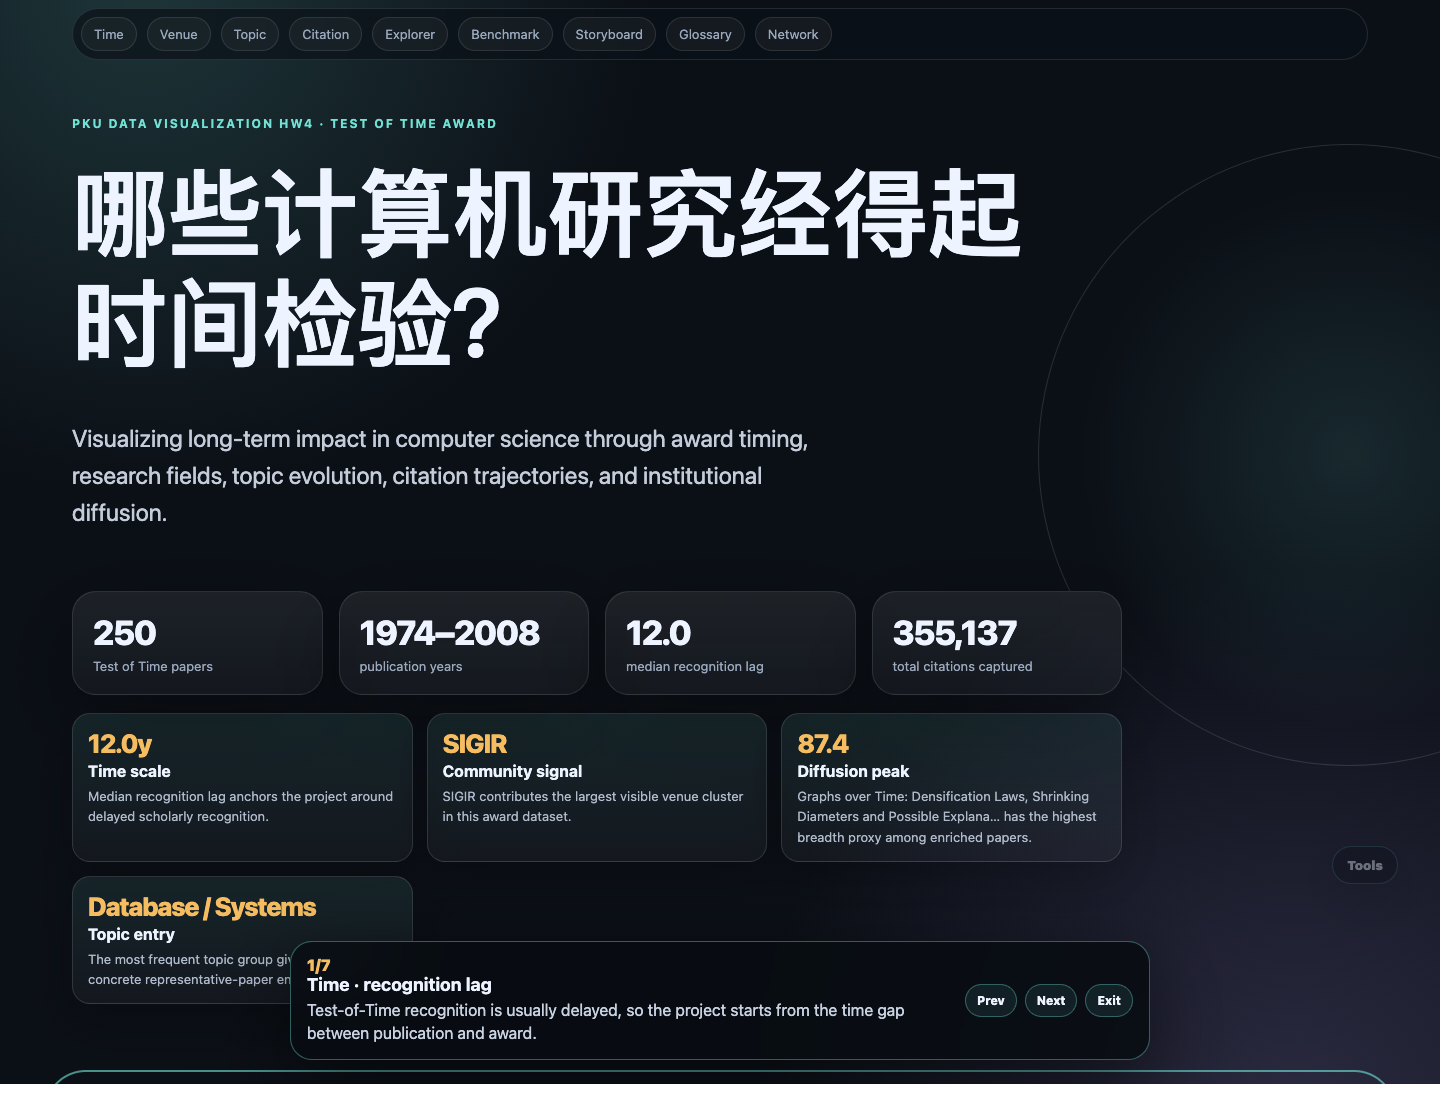
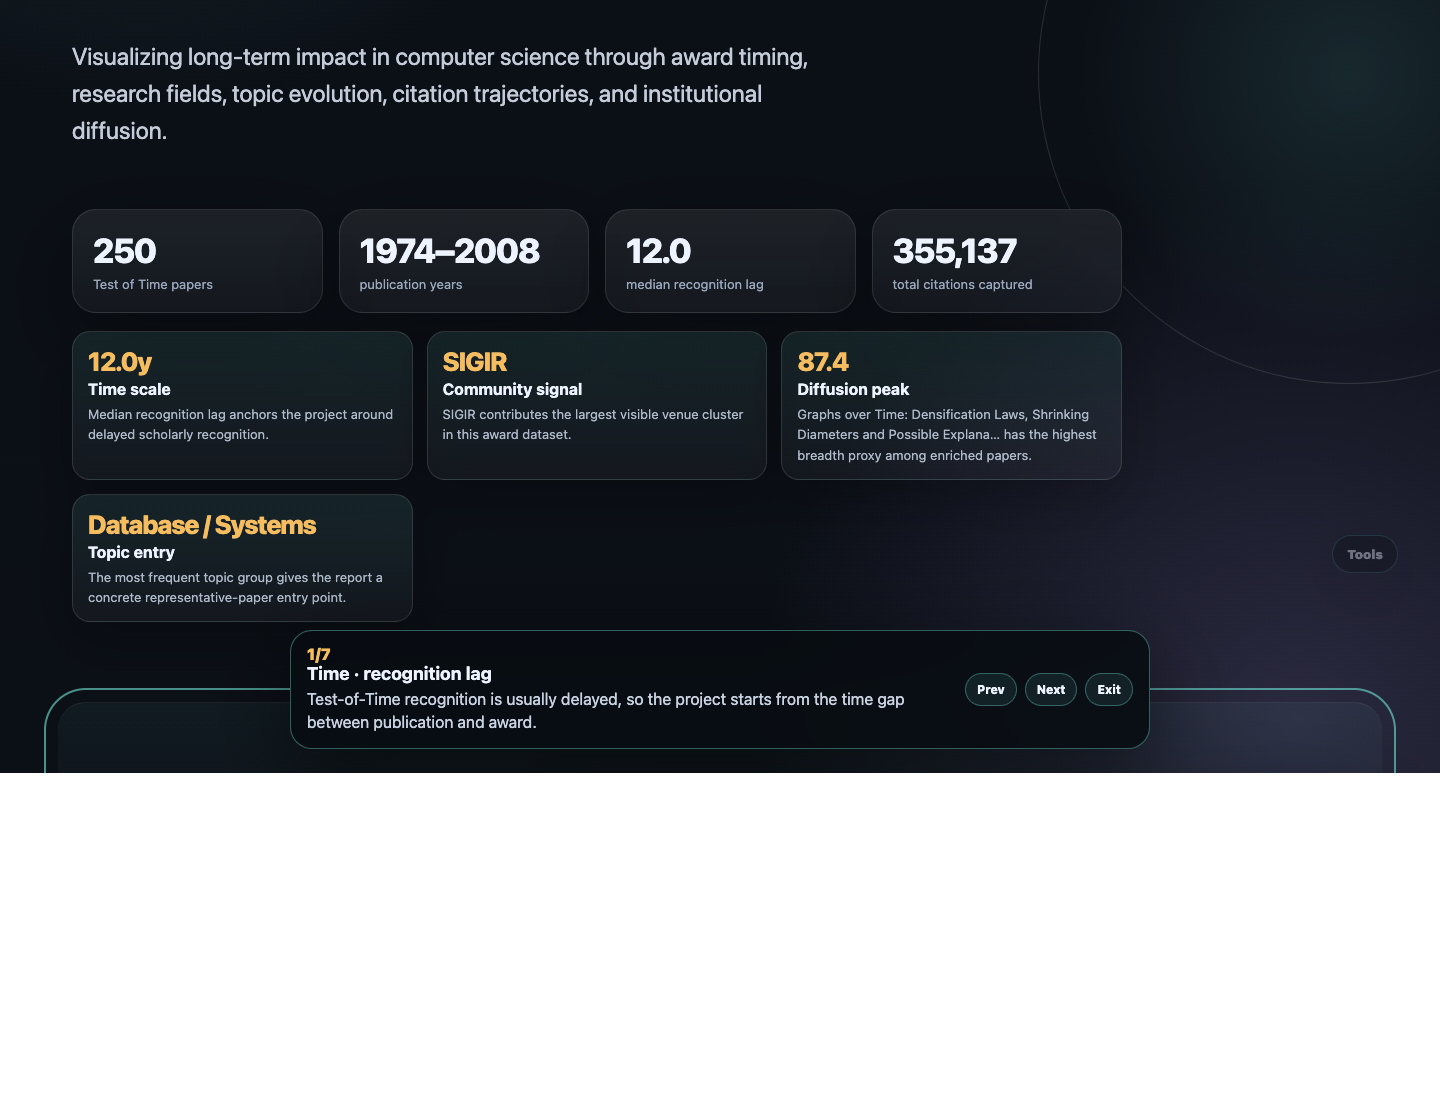
feat: make presentation tool dock draggable

diff --git a/src/app.js b/src/app.js
@@ -88,6 +88,7 @@ function initPresentationMode() {
   const actionDock = document.getElementById("action-dock");
   const dockToggle = document.getElementById("dock-toggle");
   const dockHide = document.getElementById("dock-hide");
+  const dockRestore = document.getElementById("dock-restore");
   const toggle = document.getElementById("presentation-toggle");
   const tourToggle = document.getElementById("tour-toggle");
   const screenshotToggle = document.getElementById("screenshot-toggle");
@@ -131,23 +132,60 @@ function initPresentationMode() {
   const exportPreviewTitle = document.getElementById("export-preview-title");
   const exportPreviewMeta = document.getElementById("export-preview-meta");
 
+  const syncDockRestorePosition = () => {
+    if (!actionDock || !dockRestore) return;
+    const isPositioned = actionDock.classList.contains("dock-positioned");
+    dockRestore.classList.toggle("dock-positioned", isPositioned);
+    if (isPositioned) {
+      dockRestore.style.left = actionDock.style.left;
+      dockRestore.style.top = actionDock.style.top;
+      dockRestore.style.right = "auto";
+      dockRestore.style.bottom = "auto";
+    } else {
+      dockRestore.style.left = "";
+      dockRestore.style.top = "";
+      dockRestore.style.right = "";
+      dockRestore.style.bottom = "";
+    }
+  };
+
+  const positionDock = (left, top) => {
+    if (!actionDock) return;
+    const rect = actionDock.getBoundingClientRect();
+    const margin = 10;
+    const maxLeft = Math.max(margin, window.innerWidth - rect.width - margin);
+    const maxTop = Math.max(margin, window.innerHeight - rect.height - margin);
+    const nextLeft = Math.min(Math.max(margin, left), maxLeft);
+    const nextTop = Math.min(Math.max(margin, top), maxTop);
+    actionDock.classList.add("dock-positioned");
+    actionDock.style.left = `${nextLeft}px`;
+    actionDock.style.top = `${nextTop}px`;
+    actionDock.style.right = "auto";
+    actionDock.style.bottom = "auto";
+    syncDockRestorePosition();
+  };
+
   const setDockCollapsed = collapsed => {
     if (!actionDock || !dockToggle) return;
     actionDock.classList.remove("dock-hidden");
+    if (dockRestore) dockRestore.hidden = true;
     actionDock.classList.toggle("dock-collapsed", collapsed);
     actionDock.classList.toggle("dock-expanded", !collapsed);
     dockToggle.setAttribute("aria-expanded", collapsed ? "false" : "true");
     dockToggle.textContent = collapsed ? "Tools" : "Close";
+    syncDockRestorePosition();
   };
 
   const setDockHidden = hidden => {
     if (!actionDock || !dockToggle) return;
     actionDock.classList.toggle("dock-hidden", hidden);
+    if (dockRestore) dockRestore.hidden = !hidden;
     if (hidden) {
       actionDock.classList.add("dock-collapsed");
       actionDock.classList.remove("dock-expanded");
       dockToggle.setAttribute("aria-expanded", "false");
       dockToggle.textContent = "Tools";
+      syncDockRestorePosition();
     }
   };
 
@@ -155,6 +193,64 @@ function initPresentationMode() {
     if (!actionDock) return;
     if (actionDock.classList.contains("dock-hidden")) setDockCollapsed(true);
     else setDockHidden(true);
+  };
+
+  const initDockDrag = () => {
+    if (!actionDock || !dockToggle) return;
+    let startX = 0;
+    let startY = 0;
+    let startLeft = 0;
+    let startTop = 0;
+    let pointerId = null;
+    let moved = false;
+
+    const endDrag = event => {
+      if (pointerId === null || event.pointerId !== pointerId) return;
+      actionDock.classList.remove("dock-dragging");
+      dockToggle.releasePointerCapture?.(pointerId);
+      pointerId = null;
+      if (moved) {
+        event.preventDefault();
+        event.stopPropagation();
+      }
+      setTimeout(() => { moved = false; }, 0);
+    };
+
+    dockToggle.addEventListener("pointerdown", event => {
+      if (event.button !== 0) return;
+      const rect = actionDock.getBoundingClientRect();
+      startX = event.clientX;
+      startY = event.clientY;
+      startLeft = rect.left;
+      startTop = rect.top;
+      pointerId = event.pointerId;
+      moved = false;
+      dockToggle.setPointerCapture?.(pointerId);
+    });
+
+    dockToggle.addEventListener("pointermove", event => {
+      if (pointerId === null || event.pointerId !== pointerId) return;
+      const dx = event.clientX - startX;
+      const dy = event.clientY - startY;
+      if (!moved && Math.hypot(dx, dy) < 4) return;
+      moved = true;
+      actionDock.classList.add("dock-dragging");
+      positionDock(startLeft + dx, startTop + dy);
+    });
+
+    dockToggle.addEventListener("pointerup", endDrag);
+    dockToggle.addEventListener("pointercancel", endDrag);
+    dockToggle.addEventListener("click", event => {
+      if (!moved) return;
+      event.preventDefault();
+      event.stopPropagation();
+    }, true);
+
+    window.addEventListener("resize", () => {
+      if (!actionDock.classList.contains("dock-positioned")) return;
+      const rect = actionDock.getBoundingClientRect();
+      positionDock(rect.left, rect.top);
+    });
   };
 
   const setMode = enabled => {
@@ -335,9 +431,11 @@ function initPresentationMode() {
   };
 
   setMode(shouldStart);
+  initDockDrag();
   if (shouldStart) setTimeout(startTour, 250);
   if (dockToggle) dockToggle.addEventListener("click", () => setDockCollapsed(!actionDock.classList.contains("dock-collapsed")));
   if (dockHide) dockHide.addEventListener("click", () => setDockHidden(true));
+  if (dockRestore) dockRestore.addEventListener("click", () => setDockCollapsed(true));
   if (toggle) toggle.addEventListener("click", () => setMode(!root.classList.contains("presentation-mode")));
   if (tourToggle) tourToggle.addEventListener("click", startTour);
   document.getElementById("tour-prev")?.addEventListener("click", () => moveTour(-1));

diff --git a/src/styles.css b/src/styles.css
@@ -976,9 +976,16 @@ body.exporting .tour-active { outline: none; background: transparent; }
   display: grid;
   gap: 9px;
   justify-items: end;
+  touch-action: none;
+  user-select: none;
   transition: transform .18s ease, opacity .18s ease;
 }
-.dock-toggle {
+.action-dock.dock-dragging,
+.action-dock.dock-dragging * {
+  cursor: grabbing !important;
+}
+.dock-toggle,
+.dock-restore {
   border: 1px solid rgba(112,225,212,.34);
   background: rgba(8, 12, 18, .80);
   color: var(--text);
@@ -987,11 +994,19 @@ body.exporting .tour-active { outline: none; background: transparent; }
   font: inherit;
   font-size: 13px;
   font-weight: 900;
-  cursor: pointer;
+  cursor: grab;
   box-shadow: 0 18px 55px rgba(0,0,0,.34);
   backdrop-filter: blur(16px);
 }
-.dock-toggle:hover { border-color: rgba(112,225,212,.82); background: rgba(112,225,212,.13); }
+.dock-toggle:hover,
+.dock-restore:hover { border-color: rgba(112,225,212,.82); background: rgba(112,225,212,.13); }
+.dock-restore {
+  position: fixed;
+  right: clamp(18px, 4vw, 42px);
+  bottom: 22px;
+  z-index: 18;
+}
+.dock-restore[hidden] { display: none !important; }
 .action-dock .floating-actions {
   position: static;
   display: grid;
@@ -1024,8 +1039,12 @@ body.exporting .tour-controls,
 body.exporting .action-dock { display: none !important; }
 
 @media (max-width: 980px) {
-  .action-dock { left: 18px; right: 18px; justify-items: stretch; }
+  .action-dock,
+  .dock-restore { left: 18px; right: 18px; justify-items: stretch; }
+  .action-dock.dock-positioned,
+  .dock-restore.dock-positioned { right: auto; bottom: auto; width: max-content; }
   .action-dock .floating-actions { justify-items: stretch; }
   .dock-toggle,
+  .dock-restore,
   .action-dock .presentation-toggle { justify-content: center; width: 100%; }
 }

diff --git a/index.html b/index.html
@@ -21,8 +21,8 @@
       <a href="#glossary">Glossary</a>
       <a href="#network">Network</a>
     </nav>
-    <div id="action-dock" class="action-dock dock-collapsed" aria-label="Presentation tools">
-      <button id="dock-toggle" class="dock-toggle" type="button" aria-expanded="false" title="Show presentation tools">Tools</button>
+    <div id="action-dock" class="action-dock dock-collapsed" aria-label="Presentation tools" data-draggable-dock>
+      <button id="dock-toggle" class="dock-toggle" type="button" aria-expanded="false" title="Show presentation tools · drag to move">Tools</button>
       <div class="floating-actions" aria-label="Presentation actions">
         <button id="presentation-toggle" class="presentation-toggle" type="button" aria-pressed="false" title="Toggle projector-friendly presentation mode with P">
           Present
@@ -42,6 +42,7 @@
         </button>
       </div>
     </div>
+    <button id="dock-restore" class="dock-restore" type="button" hidden title="Show presentation tools again">Tools</button>
     <div id="tour-controls" class="tour-controls" hidden aria-live="polite">
       <div>
         <span id="tour-step-count" class="tour-step-count"></span>
